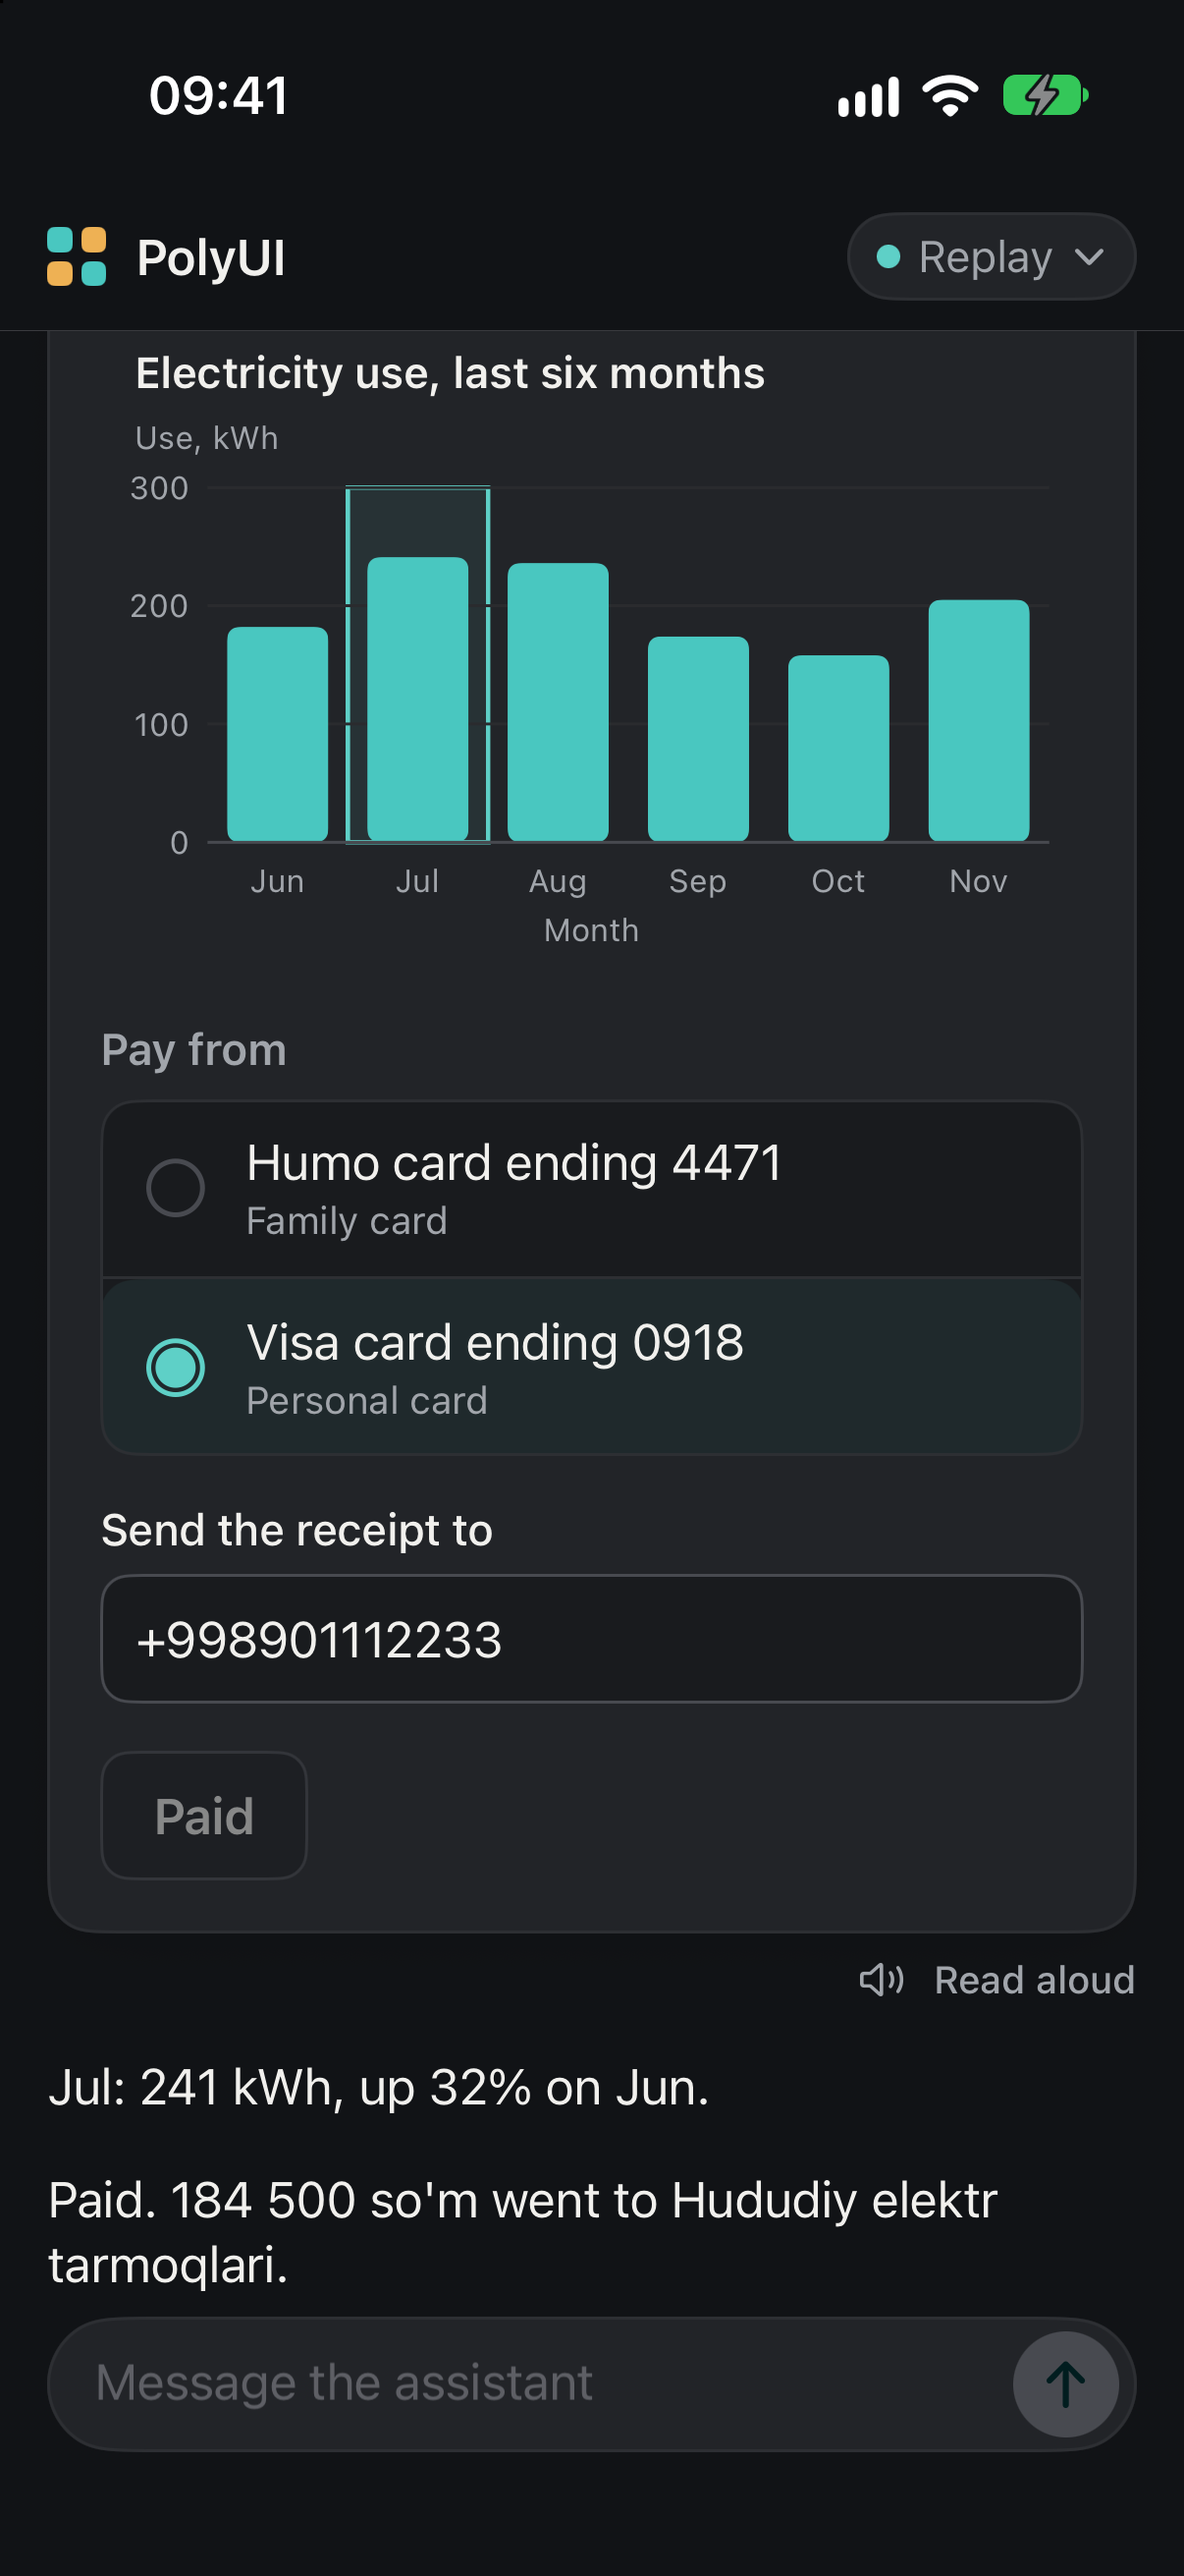
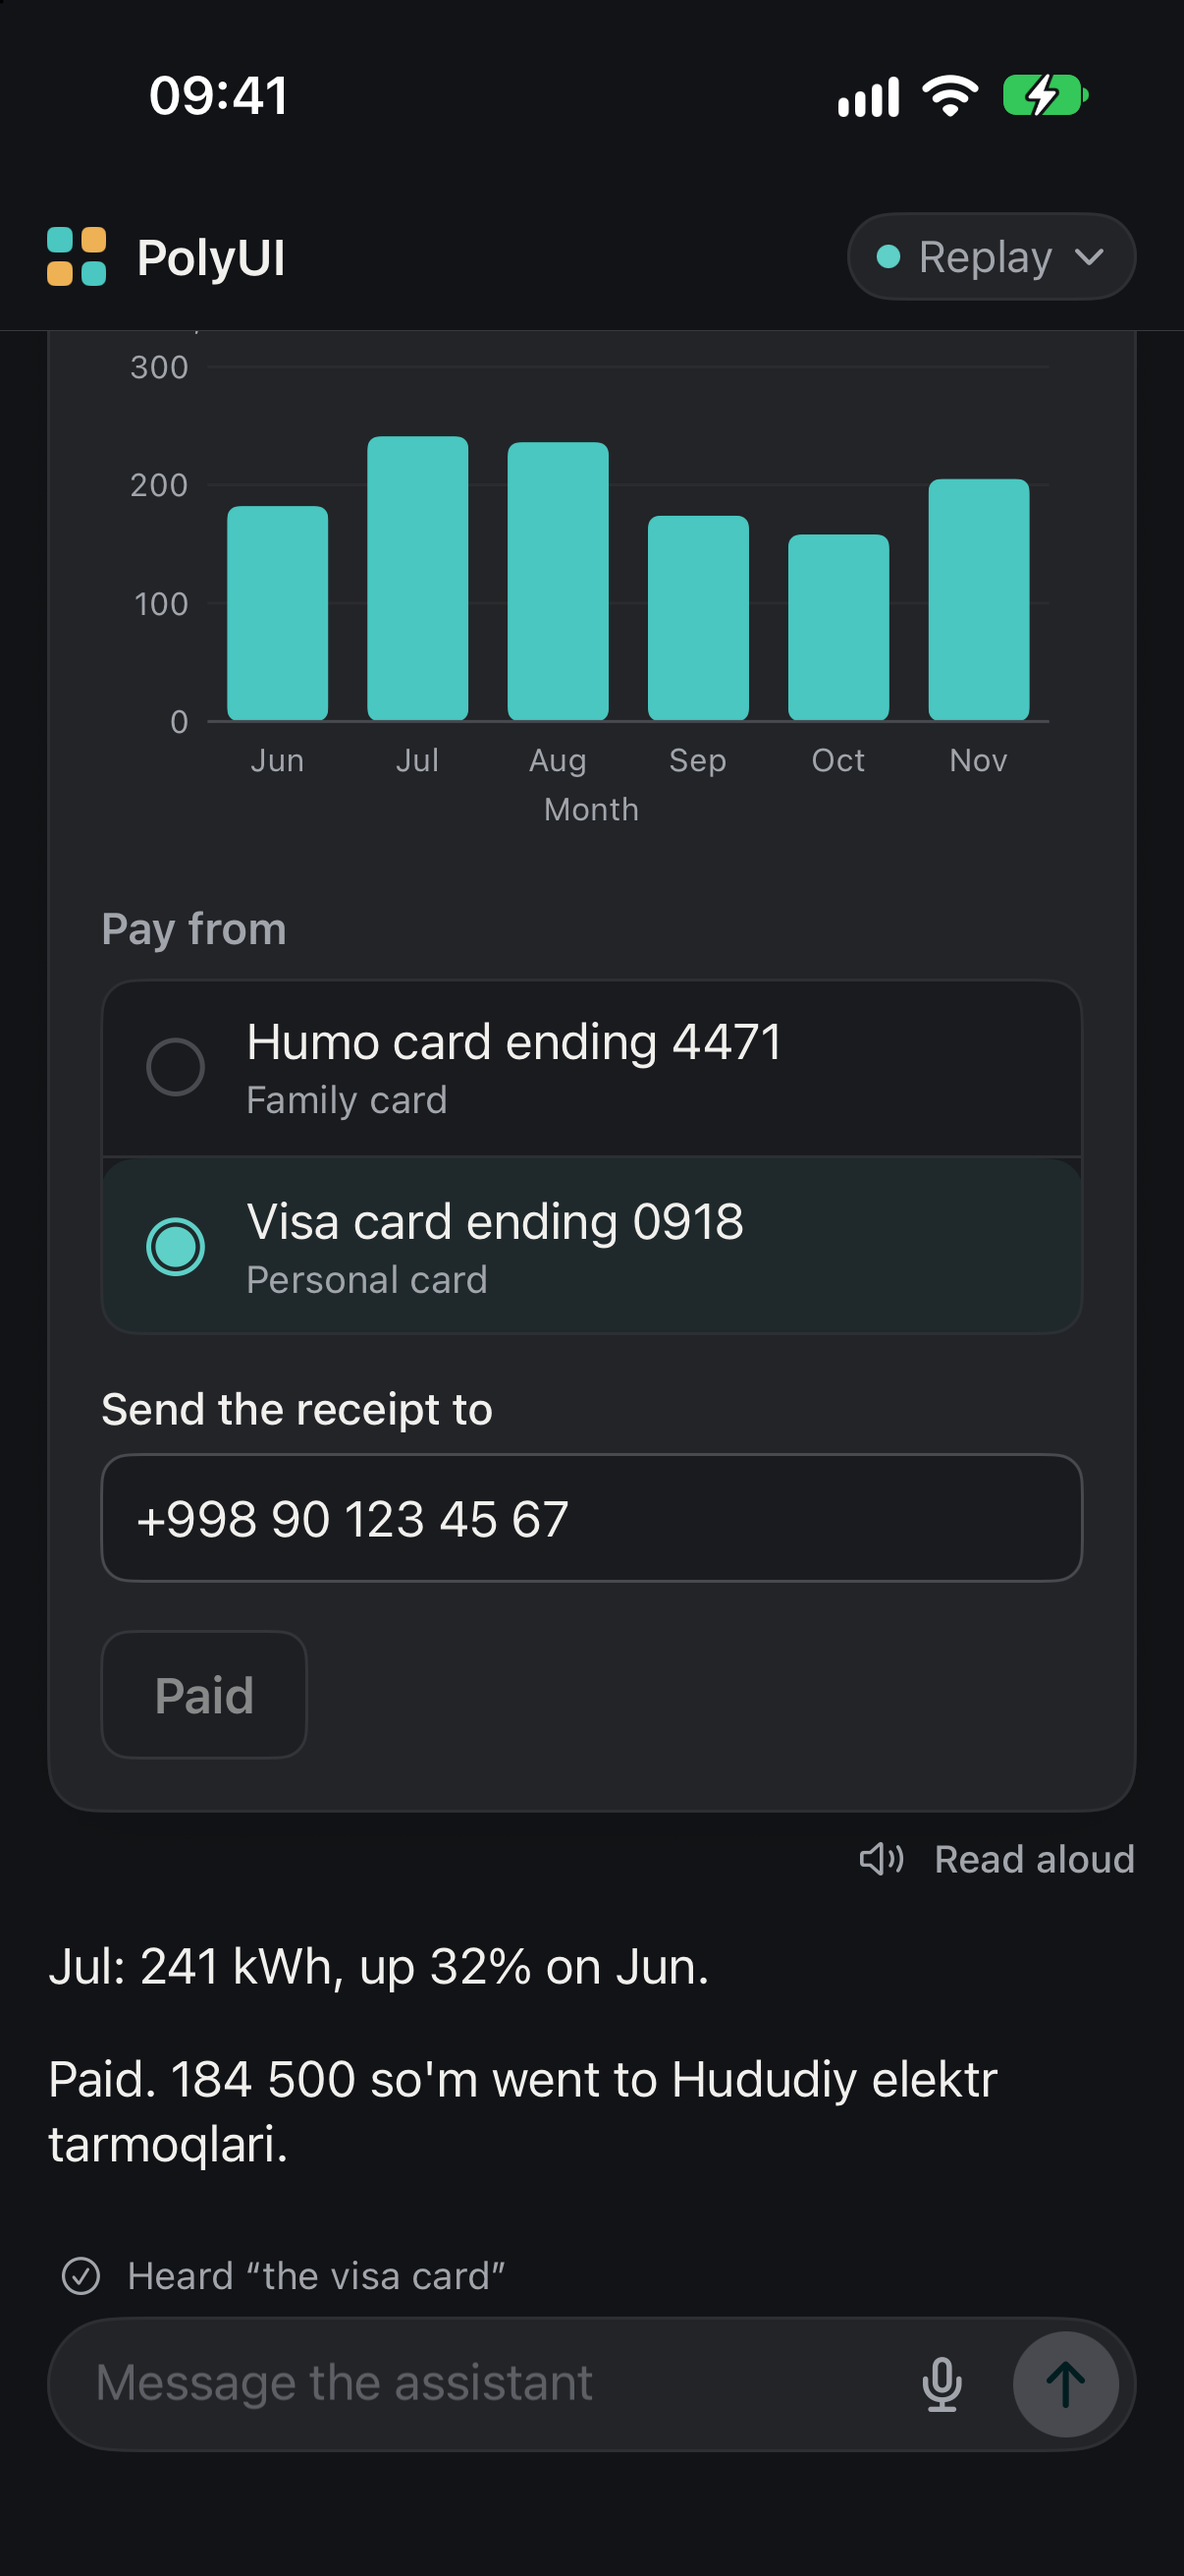
Retake the iOS light and dark screenshots with the microphone button
Both come from the iPhone 17 simulator. The dark one now also shows a heard phrase picking the Visa card.

diff --git a/docs/ios.md b/docs/ios.md
@@ -9,7 +9,7 @@ The iOS side has three layers. At the bottom is `polyui-ffi`, a small C ABI over
 ![The forecast MCP App inside an embed:Embed, light mode](images/ios-embed-light.png)
 ![The same embed in dark mode](images/ios-embed-dark.png)
 
-The light screenshot shows the July bar after a tap. The confirm sheet and the dark screenshot come from the same run: the Visa card was picked, a phone number typed into the receipt field, Pay pressed and confirmed, and the server's patch turned the button into Paid. These three were taken before the microphone button was added to the composer. The two embed screenshots are newer: they show the forecast app from `js/polyui-web/demo/embed` running inside the iOS renderer, with the tool result drawn and its fetch blocked by the app's CSP.
+The light screenshot shows the July bar after a tap. The dark screenshot is the `paid` demo with `-PolyUIVoice "the visa card"`: the heard phrase picked the Visa card, a phone number went into the receipt field, Pay was pressed and confirmed, and the server's patch turned the button into Paid. Both were taken on 2026-11-26 in the iPhone 17 simulator. The confirm sheet is older, from a run where the Visa card was picked by hand; the sheet covers the composer, so the missing microphone button does not show. The two embed screenshots are newer: they show the forecast app from `js/polyui-web/demo/embed` running inside the iOS renderer, with the tool result drawn and its fetch blocked by the app's CSP.
 
 ## Adding it to an app
 
@@ -321,5 +321,4 @@ On 2026-11-25 the example app ran on an iPhone 14 Pro with iOS 27.0.1, as a Debu
 - The Intel simulator slice builds and the package links against it, but no test ran on an Intel simulator.
 - `teardown` is best effort: the web view can be gone before the app receives `ui/resource-teardown`.
 - An embed inside a `LazyVStack` that scrolls far off screen can be torn down by SwiftUI and loads again, with a new nonce, when it comes back.
-- The three older screenshots at the top predate the microphone button.
 - VoiceOver was tried on a device only with the bills card, by hand. Other component types and the embed have been checked only through the accessibility traits and labels the code sets, and through the UI test that finds the web view by its title.
